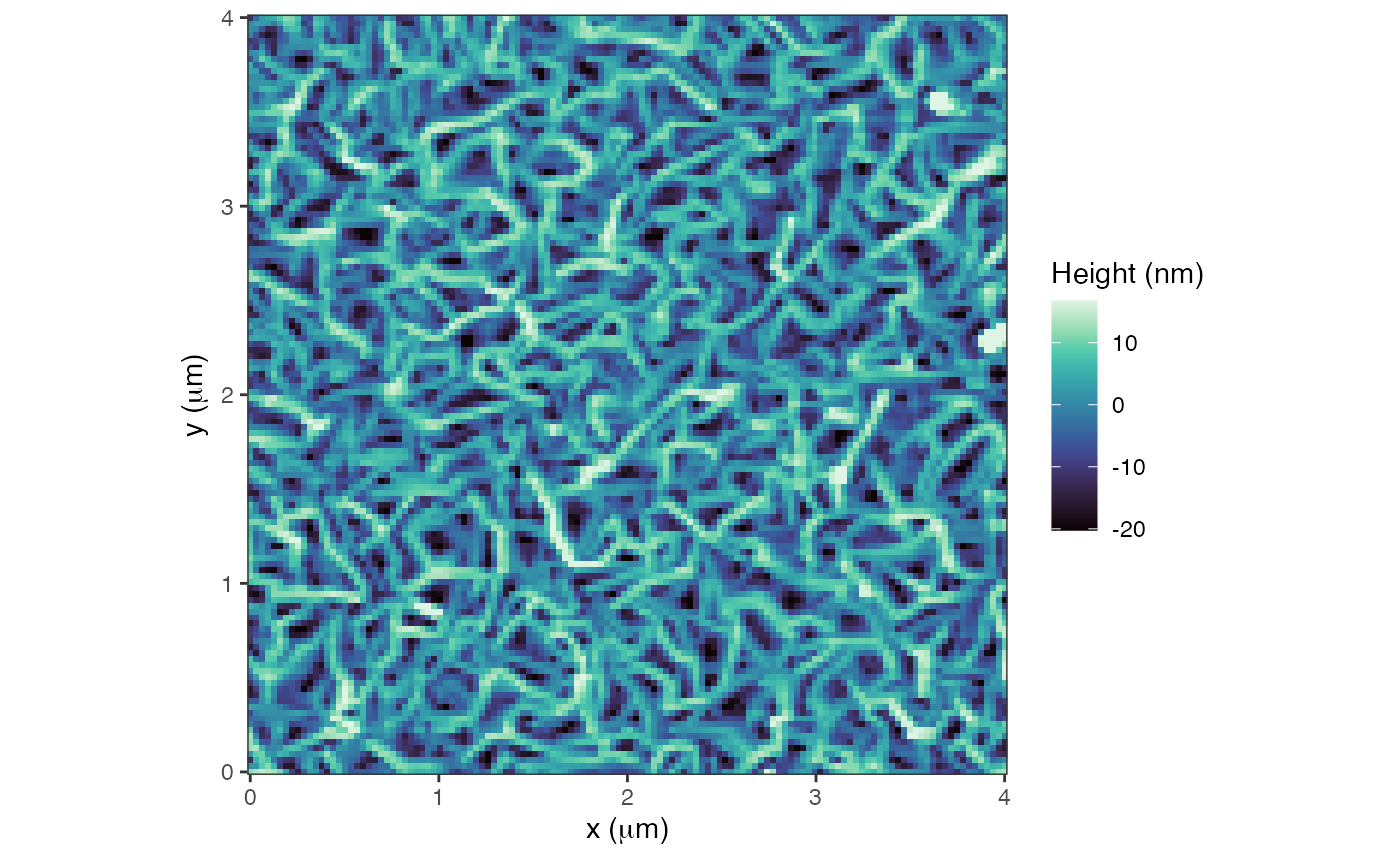
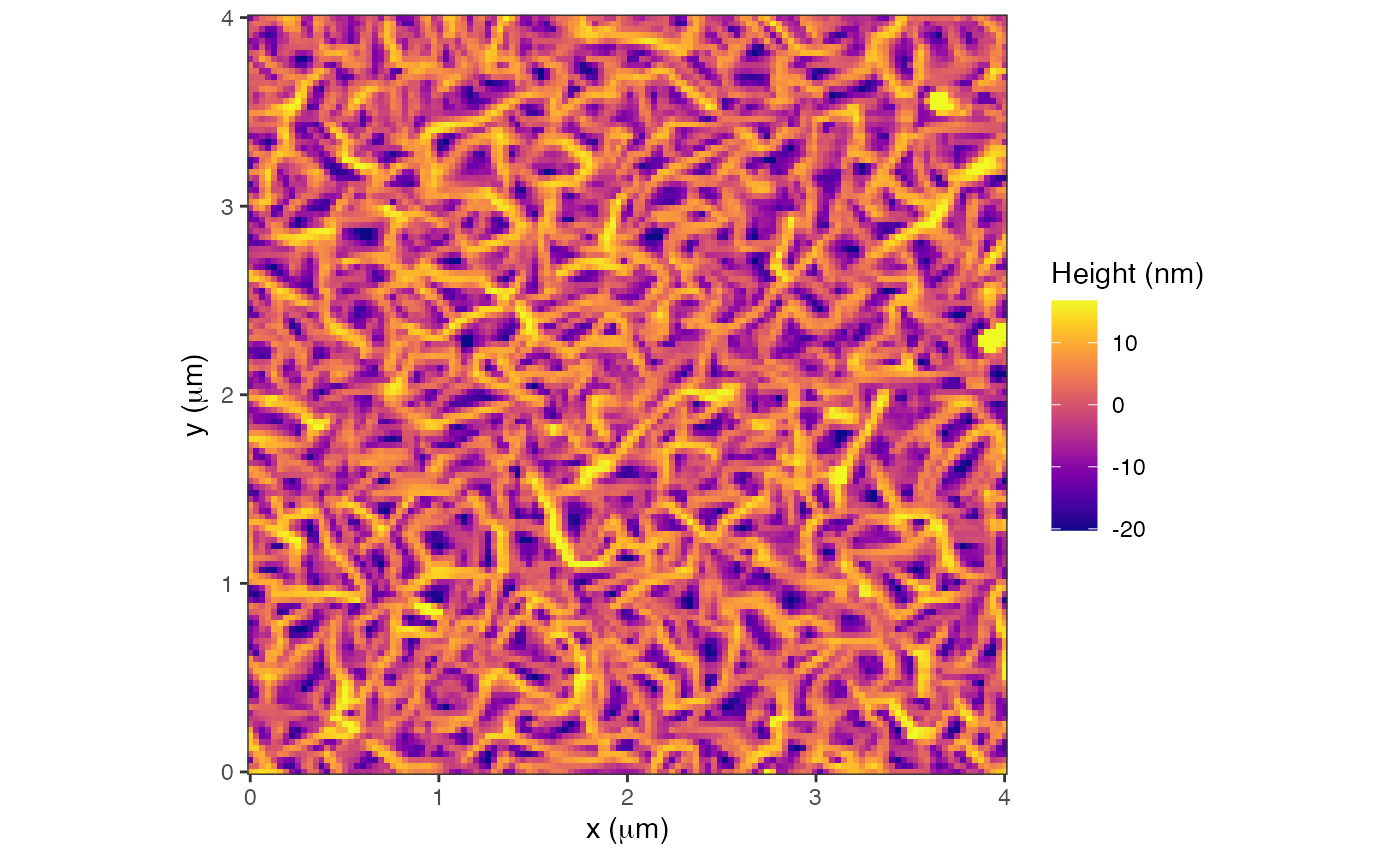
add color and graphType to plot.AFMdata

diff --git a/docs/articles/AFM-graphTypes.html b/docs/articles/AFM-graphTypes.html
@@ -140,9 +140,10 @@ the scale inside the graph.</p>
 <p>The image can be saved with <code>ggsave</code> as it is graphed with
 ggplot.</p>
 <div class="sourceCode" id="cb5"><pre class="downlit sourceCode r">
-<code class="sourceCode R"><span><span class="va">g1</span> <span class="op">=</span> <span class="fu"><a href="https://rdrr.io/r/graphics/plot.default.html" class="external-link">plot</a></span><span class="op">(</span><span class="va">afmd</span>, graphType<span class="op">=</span><span class="fl">2</span>, trimPeaks<span class="op">=</span><span class="fl">0.01</span><span class="op">)</span></span>
+<code class="sourceCode R"><span><span class="va">g1</span> <span class="op">=</span> <span class="fu"><a href="https://rdrr.io/r/graphics/plot.default.html" class="external-link">plot</a></span><span class="op">(</span><span class="va">afmd</span>, graphType<span class="op">=</span><span class="fl">2</span>, size<span class="op">=</span><span class="fl">10</span>, trimPeaks<span class="op">=</span><span class="fl">0.01</span><span class="op">)</span></span>
 <span><span class="co">#&gt; Graphing: HeightRetrace</span></span>
-<span><span class="fu"><a href="https://ggplot2.tidyverse.org/reference/ggsave.html" class="external-link">ggsave</a></span><span class="op">(</span><span class="fu"><a href="https://rdrr.io/r/base/tempfile.html" class="external-link">tempfile</a></span><span class="op">(</span>pattern <span class="op">=</span> <span class="st">""</span>, fileext <span class="op">=</span> <span class="st">".png"</span><span class="op">)</span>, plot<span class="op">=</span><span class="va">g1</span>, dpi<span class="op">=</span><span class="fl">300</span><span class="op">)</span></span>
+<span><span class="co">#&gt; Warning: Duplicated aesthetics after name standardisation: size</span></span>
+<span><span class="fu"><a href="https://ggplot2.tidyverse.org/reference/ggsave.html" class="external-link">ggsave</a></span><span class="op">(</span><span class="fu"><a href="https://rdrr.io/r/base/tempfile.html" class="external-link">tempfile</a></span><span class="op">(</span>pattern <span class="op">=</span> <span class="st">""</span>, fileext <span class="op">=</span> <span class="st">".png"</span><span class="op">)</span>, plot<span class="op">=</span><span class="va">g1</span>, dpi<span class="op">=</span><span class="fl">150</span><span class="op">)</span></span>
 <span><span class="co">#&gt; Saving 7.29 x 4.51 in image</span></span></code></pre></div>
 </div>
 <div class="section level2">
@@ -167,20 +168,31 @@ ggplot.</p>
 <span><span class="co">#&gt; 4   ZSensorRetrace         -29.44336 48.16414      nm</span></span></code></pre></div>
 </div>
 <div class="section level2">
+<h2 id="graphtype-4">graphType 4<a class="anchor" aria-label="anchor" href="#graphtype-4"></a>
+</h2>
+<p>This graph type is plain with a scale. You can also change the color
+and the size of the font that displays the scale.</p>
+<div class="sourceCode" id="cb8"><pre class="downlit sourceCode r">
+<code class="sourceCode R"><span><span class="fu"><a href="https://rdrr.io/r/graphics/plot.default.html" class="external-link">plot</a></span><span class="op">(</span><span class="va">afmd</span>, graphType<span class="op">=</span><span class="fl">4</span>, col<span class="op">=</span><span class="st">'white'</span>, size<span class="op">=</span><span class="fl">10</span>, trimPeaks<span class="op">=</span><span class="fl">0.05</span>, fillOption <span class="op">=</span> <span class="st">'A'</span><span class="op">)</span></span>
+<span><span class="co">#&gt; Graphing: HeightRetrace</span></span>
+<span><span class="co">#&gt; Warning: Duplicated aesthetics after name standardisation: size</span></span></code></pre></div>
+<p><img src="AFM-graphTypes_files/figure-html/unnamed-chunk-7-1.png" width="700"></p>
+</div>
+<div class="section level2">
 <h2 id="red-blue-color-scheme">Red Blue Color Scheme<a class="anchor" aria-label="anchor" href="#red-blue-color-scheme"></a>
 </h2>
 <p>This graph type is bare and has neither length scales nor legend.</p>
-<div class="sourceCode" id="cb8"><pre class="downlit sourceCode r">
+<div class="sourceCode" id="cb9"><pre class="downlit sourceCode r">
 <code class="sourceCode R"><span><span class="fu"><a href="https://rdrr.io/r/graphics/plot.default.html" class="external-link">plot</a></span><span class="op">(</span><span class="va">afmd</span>, graphType<span class="op">=</span><span class="fl">1</span>, trimPeaks<span class="op">=</span><span class="fl">0.01</span>, redBlue <span class="op">=</span> <span class="cn">TRUE</span><span class="op">)</span></span>
 <span><span class="co">#&gt; Graphing: HeightRetrace</span></span></code></pre></div>
-<p><img src="AFM-graphTypes_files/figure-html/unnamed-chunk-7-1.png" width="700"></p>
+<p><img src="AFM-graphTypes_files/figure-html/unnamed-chunk-8-1.png" width="700"></p>
 </div>
 <div class="section level2">
 <h2 id="graphing-2-plots-side-by-side">Graphing 2 plots side by side<a class="anchor" aria-label="anchor" href="#graphing-2-plots-side-by-side"></a>
 </h2>
 <p>Use the package <code>cowplot</code> to create a graph with two
 plots. Use <code>save_plot</code> to save the graph.</p>
-<div class="sourceCode" id="cb9"><pre class="downlit sourceCode r">
+<div class="sourceCode" id="cb10"><pre class="downlit sourceCode r">
 <code class="sourceCode R"><span><span class="kw"><a href="https://rdrr.io/r/base/library.html" class="external-link">library</a></span><span class="op">(</span><span class="va"><a href="https://wilkelab.org/cowplot/" class="external-link">cowplot</a></span><span class="op">)</span></span>
 <span><span class="va">fname2</span> <span class="op">=</span> <span class="fu"><a href="../reference/AFM.getSampleImages.html">AFM.getSampleImages</a></span><span class="op">(</span>type<span class="op">=</span><span class="st">'ibw'</span><span class="op">)</span><span class="op">[</span><span class="fl">1</span><span class="op">]</span></span>
 <span><span class="va">afmd2</span> <span class="op">=</span> <span class="fu"><a href="../reference/AFM.import.html">AFM.import</a></span><span class="op">(</span><span class="va">fname2</span><span class="op">)</span></span>
@@ -206,7 +218,7 @@ plots. Use <code>save_plot</code> to save the graph.</p>
 <span><span class="va">gAll</span> <span class="op">=</span> <span class="fu"><a href="https://wilkelab.org/cowplot/reference/plot_grid.html" class="external-link">plot_grid</a></span><span class="op">(</span><span class="va">g1</span>, <span class="va">g2</span>, <span class="va">g3</span>, <span class="va">g4</span>,</span>
 <span>          labels<span class="op">=</span><span class="fu"><a href="https://rdrr.io/r/base/c.html" class="external-link">c</a></span><span class="op">(</span><span class="st">'a'</span>,<span class="st">'b'</span>,<span class="st">'c'</span>,<span class="st">'d'</span><span class="op">)</span><span class="op">)</span></span>
 <span><span class="fu"><a href="https://wilkelab.org/cowplot/reference/ggdraw.html" class="external-link">ggdraw</a></span><span class="op">(</span><span class="fu"><a href="https://wilkelab.org/cowplot/reference/add_sub.html" class="external-link">add_sub</a></span><span class="op">(</span><span class="va">gAll</span>, <span class="st">"(a) height, (b) amplitude, (c) phase, (d) z sensor"</span>,x<span class="op">=</span><span class="fl">0.1</span>, hjust<span class="op">=</span><span class="fl">0</span><span class="op">)</span><span class="op">)</span></span></code></pre></div>
-<p><img src="AFM-graphTypes_files/figure-html/unnamed-chunk-8-1.png" width="700"></p>
+<p><img src="AFM-graphTypes_files/figure-html/unnamed-chunk-9-1.png" width="700"></p>
 </div>
 <div class="section level2">
 <h2 id="changing-the-color-palette">Changing the Color Palette<a class="anchor" aria-label="anchor" href="#changing-the-color-palette"></a>
@@ -214,50 +226,50 @@ plots. Use <code>save_plot</code> to save the graph.</p>
 <p>You can use the <code>fillOption</code> option to change the color
 palette, see also <code>? scale_fill_viridis</code>. There are 8
 options:</p>
-<div class="sourceCode" id="cb10"><pre class="downlit sourceCode r">
+<div class="sourceCode" id="cb11"><pre class="downlit sourceCode r">
 <code class="sourceCode R"><span><span class="fu"><a href="https://rdrr.io/r/graphics/plot.default.html" class="external-link">plot</a></span><span class="op">(</span><span class="va">afmd</span>, graphType <span class="op">=</span> <span class="fl">1</span>, fillOption <span class="op">=</span> <span class="st">"magma"</span><span class="op">)</span></span>
 <span><span class="co">#&gt; Graphing: HeightRetrace</span></span></code></pre></div>
-<p><img src="AFM-graphTypes_files/figure-html/unnamed-chunk-9-1.png" width="700"></p>
-<div class="sourceCode" id="cb11"><pre class="downlit sourceCode r">
+<p><img src="AFM-graphTypes_files/figure-html/unnamed-chunk-10-1.png" width="700"></p>
+<div class="sourceCode" id="cb12"><pre class="downlit sourceCode r">
 <code class="sourceCode R"><span><span class="fu"><a href="https://rdrr.io/r/graphics/plot.default.html" class="external-link">plot</a></span><span class="op">(</span><span class="va">afmd</span>, graphType <span class="op">=</span> <span class="fl">1</span>, fillOption <span class="op">=</span> <span class="st">"inferno"</span><span class="op">)</span></span>
 <span><span class="co">#&gt; Graphing: HeightRetrace</span></span></code></pre></div>
-<p><img src="AFM-graphTypes_files/figure-html/unnamed-chunk-9-2.png" width="700"></p>
-<div class="sourceCode" id="cb12"><pre class="downlit sourceCode r">
+<p><img src="AFM-graphTypes_files/figure-html/unnamed-chunk-10-2.png" width="700"></p>
+<div class="sourceCode" id="cb13"><pre class="downlit sourceCode r">
 <code class="sourceCode R"><span><span class="fu"><a href="https://rdrr.io/r/graphics/plot.default.html" class="external-link">plot</a></span><span class="op">(</span><span class="va">afmd</span>, graphType <span class="op">=</span> <span class="fl">1</span>, fillOption <span class="op">=</span> <span class="st">"plasma"</span><span class="op">)</span></span>
 <span><span class="co">#&gt; Graphing: HeightRetrace</span></span></code></pre></div>
-<p><img src="AFM-graphTypes_files/figure-html/unnamed-chunk-9-3.png" width="700"></p>
-<div class="sourceCode" id="cb13"><pre class="downlit sourceCode r">
+<p><img src="AFM-graphTypes_files/figure-html/unnamed-chunk-10-3.png" width="700"></p>
+<div class="sourceCode" id="cb14"><pre class="downlit sourceCode r">
 <code class="sourceCode R"><span><span class="fu"><a href="https://rdrr.io/r/graphics/plot.default.html" class="external-link">plot</a></span><span class="op">(</span><span class="va">afmd</span>, graphType <span class="op">=</span> <span class="fl">1</span>, fillOption <span class="op">=</span> <span class="st">"viridis"</span><span class="op">)</span></span>
 <span><span class="co">#&gt; Graphing: HeightRetrace</span></span></code></pre></div>
-<p><img src="AFM-graphTypes_files/figure-html/unnamed-chunk-9-4.png" width="700"></p>
-<div class="sourceCode" id="cb14"><pre class="downlit sourceCode r">
+<p><img src="AFM-graphTypes_files/figure-html/unnamed-chunk-10-4.png" width="700"></p>
+<div class="sourceCode" id="cb15"><pre class="downlit sourceCode r">
 <code class="sourceCode R"><span><span class="fu"><a href="https://rdrr.io/r/graphics/plot.default.html" class="external-link">plot</a></span><span class="op">(</span><span class="va">afmd</span>, graphType <span class="op">=</span> <span class="fl">1</span>, fillOption <span class="op">=</span> <span class="st">"cividis"</span><span class="op">)</span></span>
 <span><span class="co">#&gt; Graphing: HeightRetrace</span></span></code></pre></div>
-<p><img src="AFM-graphTypes_files/figure-html/unnamed-chunk-10-1.png" width="700"></p>
-<div class="sourceCode" id="cb15"><pre class="downlit sourceCode r">
+<p><img src="AFM-graphTypes_files/figure-html/unnamed-chunk-11-1.png" width="700"></p>
+<div class="sourceCode" id="cb16"><pre class="downlit sourceCode r">
 <code class="sourceCode R"><span><span class="fu"><a href="https://rdrr.io/r/graphics/plot.default.html" class="external-link">plot</a></span><span class="op">(</span><span class="va">afmd</span>, graphType <span class="op">=</span> <span class="fl">1</span>, fillOption <span class="op">=</span> <span class="st">"rocket"</span><span class="op">)</span></span>
 <span><span class="co">#&gt; Graphing: HeightRetrace</span></span></code></pre></div>
-<p><img src="AFM-graphTypes_files/figure-html/unnamed-chunk-10-2.png" width="700"></p>
-<div class="sourceCode" id="cb16"><pre class="downlit sourceCode r">
+<p><img src="AFM-graphTypes_files/figure-html/unnamed-chunk-11-2.png" width="700"></p>
+<div class="sourceCode" id="cb17"><pre class="downlit sourceCode r">
 <code class="sourceCode R"><span><span class="fu"><a href="https://rdrr.io/r/graphics/plot.default.html" class="external-link">plot</a></span><span class="op">(</span><span class="va">afmd</span>, graphType <span class="op">=</span> <span class="fl">1</span>, fillOption <span class="op">=</span> <span class="st">"mako"</span><span class="op">)</span></span>
 <span><span class="co">#&gt; Graphing: HeightRetrace</span></span></code></pre></div>
-<p><img src="AFM-graphTypes_files/figure-html/unnamed-chunk-10-3.png" width="700"></p>
-<div class="sourceCode" id="cb17"><pre class="downlit sourceCode r">
+<p><img src="AFM-graphTypes_files/figure-html/unnamed-chunk-11-3.png" width="700"></p>
+<div class="sourceCode" id="cb18"><pre class="downlit sourceCode r">
 <code class="sourceCode R"><span><span class="fu"><a href="https://rdrr.io/r/graphics/plot.default.html" class="external-link">plot</a></span><span class="op">(</span><span class="va">afmd</span>, graphType <span class="op">=</span> <span class="fl">1</span>, fillOption <span class="op">=</span> <span class="st">"turbo"</span><span class="op">)</span></span>
 <span><span class="co">#&gt; Graphing: HeightRetrace</span></span></code></pre></div>
-<p><img src="AFM-graphTypes_files/figure-html/unnamed-chunk-10-4.png" width="700"></p>
+<p><img src="AFM-graphTypes_files/figure-html/unnamed-chunk-11-4.png" width="700"></p>
 </div>
 <div class="section level2">
 <h2 id="adjusting-the-scale">Adjusting the scale<a class="anchor" aria-label="anchor" href="#adjusting-the-scale"></a>
 </h2>
-<div class="sourceCode" id="cb18"><pre class="downlit sourceCode r">
+<div class="sourceCode" id="cb19"><pre class="downlit sourceCode r">
 <code class="sourceCode R"><span><span class="fu"><a href="https://rdrr.io/r/graphics/plot.default.html" class="external-link">plot</a></span><span class="op">(</span><span class="va">afmd</span><span class="op">)</span></span>
 <span><span class="co">#&gt; Graphing: HeightRetrace</span></span></code></pre></div>
-<p><img src="AFM-graphTypes_files/figure-html/unnamed-chunk-11-1.png" width="700"></p>
-<div class="sourceCode" id="cb19"><pre class="downlit sourceCode r">
+<p><img src="AFM-graphTypes_files/figure-html/unnamed-chunk-12-1.png" width="700"></p>
+<div class="sourceCode" id="cb20"><pre class="downlit sourceCode r">
 <code class="sourceCode R"><span><span class="fu"><a href="https://rdrr.io/r/graphics/plot.default.html" class="external-link">plot</a></span><span class="op">(</span><span class="va">afmd</span>, setRange<span class="op">=</span><span class="fu"><a href="https://rdrr.io/r/base/c.html" class="external-link">c</a></span><span class="op">(</span><span class="op">-</span><span class="fl">50</span>,<span class="fl">50</span><span class="op">)</span><span class="op">)</span></span>
 <span><span class="co">#&gt; Graphing: HeightRetrace</span></span></code></pre></div>
-<p><img src="AFM-graphTypes_files/figure-html/unnamed-chunk-11-2.png" width="700"></p>
+<p><img src="AFM-graphTypes_files/figure-html/unnamed-chunk-12-2.png" width="700"></p>
 </div>
   </div>
 

diff --git a/docs/reference/AFM.hhcf.html b/docs/reference/AFM.hhcf.html
@@ -158,15 +158,13 @@ is no fit, the value can be reduced to 70 or 60.</p></dd>
 <span class="r-in"><span><span class="va">r</span> <span class="op">=</span> <span class="fu">AFM.hhcf</span><span class="op">(</span><span class="va">a</span>, numIterations <span class="op">=</span> <span class="fl">5e5</span>, dataOnly <span class="op">=</span> <span class="cn">TRUE</span><span class="op">)</span></span></span>
 <span class="r-in"><span><span class="fu"><a href="https://rdrr.io/r/utils/head.html" class="external-link">head</a></span><span class="op">(</span><span class="va">r</span><span class="op">)</span>                          <span class="co"># output HHCF data</span></span></span>
 <span class="r-out co"><span class="r-pr">#&gt;</span>        r.nm          g    num</span>
-<span class="r-out co"><span class="r-pr">#&gt;</span> 1  9.803922 0.08491045 498697</span>
-<span class="r-out co"><span class="r-pr">#&gt;</span> 2 19.607843 0.21596528 496567</span>
-<span class="r-out co"><span class="r-pr">#&gt;</span> 3 29.411765 0.36262190 494264</span>
-<span class="r-out co"><span class="r-pr">#&gt;</span> 4 39.215686 0.49898530 491954</span>
-<span class="r-out co"><span class="r-pr">#&gt;</span> 5 49.019608 0.61101167 489496</span>
-<span class="r-out co"><span class="r-pr">#&gt;</span> 6 58.823529 0.69584859 486998</span>
+<span class="r-out co"><span class="r-pr">#&gt;</span> 1  9.803922 0.08540261 498700</span>
+<span class="r-out co"><span class="r-pr">#&gt;</span> 2 19.607843 0.21656324 496578</span>
+<span class="r-out co"><span class="r-pr">#&gt;</span> 3 29.411765 0.36358104 494235</span>
+<span class="r-out co"><span class="r-pr">#&gt;</span> 4 39.215686 0.50029594 491850</span>
+<span class="r-out co"><span class="r-pr">#&gt;</span> 5 49.019608 0.61549534 489389</span>
+<span class="r-out co"><span class="r-pr">#&gt;</span> 6 58.823529 0.70103751 486927</span>
 <span class="r-in"><span><span class="fu">AFM.hhcf</span><span class="op">(</span><span class="va">a</span>, dataOnly <span class="op">=</span> <span class="cn">FALSE</span><span class="op">)</span>    <span class="co"># output graph</span></span></span>
-<span class="r-out co"><span class="r-pr">#&gt;</span> Error in nls(data = r, g ~ ss * (1 - exp(-(r.nm/xi)^H)), start = list(ss = ss,  : </span>
-<span class="r-out co"><span class="r-pr">#&gt;</span>   number of iterations exceeded maximum of 50</span>
 <span class="r-plt img"><img src="AFM.hhcf-1.png" alt="" width="700" height="433"></span>
 <span class="r-in"><span></span></span>
 </code></pre></div>

diff --git a/docs/articles/AFM-imageSummary.html b/docs/articles/AFM-imageSummary.html
@@ -873,7 +873,7 @@ object:</p>
 <span><span class="co">#&gt; [1] "Cypher"</span></span>
 <span><span class="co">#&gt; </span></span>
 <span><span class="co">#&gt; $filename</span></span>
-<span><span class="co">#&gt; [1] "/private/var/folders/n7/c8bjcf7n25g74wqr3_7cgpvh0000gt/T/RtmpY7B6tl/temp_libpath2ed8383980e1/nanoscopeAFM/extdata/AR_20211011.ibw"</span></span>
+<span><span class="co">#&gt; [1] "/private/var/folders/n7/c8bjcf7n25g74wqr3_7cgpvh0000gt/T/RtmpcrXDlG/temp_libpath95939f7cf3a/nanoscopeAFM/extdata/AR_20211011.ibw"</span></span>
 <span><span class="co">#&gt; </span></span>
 <span><span class="co">#&gt; $widthPixel</span></span>
 <span><span class="co">#&gt; [1] 128</span></span>
@@ -1481,7 +1481,7 @@ object:</p>
 <span><span class="co">#&gt; [1] "NanoSurf"</span></span>
 <span><span class="co">#&gt; </span></span>
 <span><span class="co">#&gt; $filename</span></span>
-<span><span class="co">#&gt; [1] "/private/var/folders/n7/c8bjcf7n25g74wqr3_7cgpvh0000gt/T/RtmpY7B6tl/temp_libpath2ed8383980e1/nanoscopeAFM/extdata/NanoSurf_20160301.nid"</span></span>
+<span><span class="co">#&gt; [1] "/private/var/folders/n7/c8bjcf7n25g74wqr3_7cgpvh0000gt/T/RtmpcrXDlG/temp_libpath95939f7cf3a/nanoscopeAFM/extdata/NanoSurf_20160301.nid"</span></span>
 <span><span class="co">#&gt; </span></span>
 <span><span class="co">#&gt; $widthPixel</span></span>
 <span><span class="co">#&gt; [1] 128</span></span>
@@ -1578,7 +1578,7 @@ object:</p>
 <span><span class="co">#&gt; [1] "Park"</span></span>
 <span><span class="co">#&gt; </span></span>
 <span><span class="co">#&gt; $filename</span></span>
-<span><span class="co">#&gt; [1] "/private/var/folders/n7/c8bjcf7n25g74wqr3_7cgpvh0000gt/T/RtmpY7B6tl/temp_libpath2ed8383980e1/nanoscopeAFM/extdata/Park_20210916_034.tiff"</span></span>
+<span><span class="co">#&gt; [1] "/private/var/folders/n7/c8bjcf7n25g74wqr3_7cgpvh0000gt/T/RtmpcrXDlG/temp_libpath95939f7cf3a/nanoscopeAFM/extdata/Park_20210916_034.tiff"</span></span>
 <span><span class="co">#&gt; </span></span>
 <span><span class="co">#&gt; $widthPixel</span></span>
 <span><span class="co">#&gt; [1] 256</span></span>

diff --git a/docs/reference/plot.AFMdata.html b/docs/reference/plot.AFMdata.html
@@ -104,7 +104,7 @@
 
 
 <dt>graphType</dt>
-<dd><p>1 = graph with legend outside, 2 = square graph with line bar, 3 = plain graph</p></dd>
+<dd><p>1 = graph with legend outside, 2 = square graph with line bar, 3 = plain graph, 4 = plain graph with scale</p></dd>
 
 
 <dt>trimPeaks</dt>
@@ -136,7 +136,7 @@
 
 
 <dt>...</dt>
-<dd><p>other arguments</p></dd>
+<dd><p>other arguments, such as col='white' to change color of bar</p></dd>
 
 </dl></div>
     <div id="value">
@@ -163,6 +163,10 @@
 <span class="r-in"><span><span class="fu"><a href="https://rdrr.io/r/graphics/plot.default.html" class="external-link">plot</a></span><span class="op">(</span><span class="va">d</span>, fillOption <span class="op">=</span> <span class="st">"magma"</span>, setRange<span class="op">=</span><span class="fu"><a href="https://rdrr.io/r/base/c.html" class="external-link">c</a></span><span class="op">(</span><span class="op">-</span><span class="fl">30</span>,<span class="fl">30</span><span class="op">)</span><span class="op">)</span></span></span>
 <span class="r-out co"><span class="r-pr">#&gt;</span> Graphing: HeightRetrace</span>
 <span class="r-plt img"><img src="plot.AFMdata-2.png" alt="" width="700" height="433"></span>
+<span class="r-in"><span><span class="fu"><a href="https://rdrr.io/r/graphics/plot.default.html" class="external-link">plot</a></span><span class="op">(</span><span class="va">d</span>, graphType<span class="op">=</span><span class="fl">4</span>, col<span class="op">=</span><span class="st">'white'</span>, size<span class="op">=</span><span class="fl">10</span><span class="op">)</span></span></span>
+<span class="r-out co"><span class="r-pr">#&gt;</span> Graphing: HeightRetrace</span>
+<span class="r-wrn co"><span class="r-pr">#&gt;</span> <span class="warning">Warning: </span>Duplicated aesthetics after name standardisation: size</span>
+<span class="r-plt img"><img src="plot.AFMdata-3.png" alt="" width="700" height="433"></span>
 </code></pre></div>
     </div>
   </div>

diff --git a/docs/articles/advancedAFM-Graph.html b/docs/articles/advancedAFM-Graph.html
@@ -109,6 +109,7 @@
     
 <div class="sourceCode" id="cb1"><pre class="downlit sourceCode r">
 <code class="sourceCode R"><span><span class="kw"><a href="https://rdrr.io/r/base/library.html" class="external-link">library</a></span><span class="op">(</span><span class="va"><a href="https://thomasgredig.github.io/nanoscopeAFM/">nanoscopeAFM</a></span><span class="op">)</span></span>
+<span><span class="co">#&gt; Please cite nanoscopeAFM ,see https://doi.org/10.5281/zenodo.5770772</span></span>
 <span><span class="kw"><a href="https://rdrr.io/r/base/library.html" class="external-link">library</a></span><span class="op">(</span><span class="va"><a href="https://ggplot2.tidyverse.org" class="external-link">ggplot2</a></span><span class="op">)</span></span>
 <span><span class="kw"><a href="https://rdrr.io/r/base/library.html" class="external-link">library</a></span><span class="op">(</span><span class="va"><a href="https://scales.r-lib.org" class="external-link">scales</a></span><span class="op">)</span></span>
 <span><span class="va">filename</span> <span class="op">=</span> <span class="fu"><a href="../reference/AFM.getSampleImages.html">AFM.getSampleImages</a></span><span class="op">(</span>type<span class="op">=</span><span class="st">'tiff'</span><span class="op">)</span></span>

diff --git a/docs/articles/afm-setpoint.html b/docs/articles/afm-setpoint.html
@@ -114,7 +114,6 @@
 retrieving the <code>AFMinfo</code>. Here is an example:</p>
 <div class="sourceCode" id="cb1"><pre class="downlit sourceCode r">
 <code class="sourceCode R"><span><span class="kw"><a href="https://rdrr.io/r/base/library.html" class="external-link">library</a></span><span class="op">(</span><span class="va"><a href="https://thomasgredig.github.io/nanoscopeAFM/">nanoscopeAFM</a></span><span class="op">)</span></span>
-<span><span class="co">#&gt; Please cite nanoscopeAFM ,see https://doi.org/10.5281/zenodo.5770772</span></span>
 <span></span>
 <span><span class="co"># loading the test file from the nanoscopeAFM package</span></span>
 <span><span class="va">filename</span> <span class="op">=</span> <span class="op">(</span><span class="fu"><a href="https://rdrr.io/r/base/system.file.html" class="external-link">system.file</a></span><span class="op">(</span><span class="st">"extdata"</span>,<span class="st">"AR_20211011.ibw"</span>,package<span class="op">=</span><span class="st">"nanoscopeAFM"</span><span class="op">)</span><span class="op">)</span></span>

diff --git a/docs/reference/print.AFMdata.html b/docs/reference/print.AFMdata.html
@@ -108,7 +108,7 @@ the description, channel, image size, history, and filename</p>
 <span class="r-out co"><span class="r-pr">#&gt;</span> Channel:     HeightRetrace AmplitudeRetrace PhaseRetrace ZSensorRetrace </span>
 <span class="r-out co"><span class="r-pr">#&gt;</span>              4000 nm  x  4000 nm </span>
 <span class="r-out co"><span class="r-pr">#&gt;</span> History:      </span>
-<span class="r-out co"><span class="r-pr">#&gt;</span> Filename:    /private/var/folders/n7/c8bjcf7n25g74wqr3_7cgpvh0000gt/T/RtmpY7B6tl/temp_libpath2ed8383980e1/nanoscopeAFM/extdata/AR_20211011.ibw</span>
+<span class="r-out co"><span class="r-pr">#&gt;</span> Filename:    /private/var/folders/n7/c8bjcf7n25g74wqr3_7cgpvh0000gt/T/RtmpcrXDlG/temp_libpath95939f7cf3a/nanoscopeAFM/extdata/AR_20211011.ibw</span>
 </code></pre></div>
     </div>
   </div>

diff --git a/docs/news/index.html b/docs/news/index.html
@@ -71,6 +71,7 @@
 <ul><li>Update the Vignettes and Documentation</li>
 <li>Height-Height Correlation Function Documentation</li>
 <li>Adding AFM image range adjustment</li>
+<li>GraphType=4 and add size to vary the bar description size</li>
 </ul></div>
     <div class="section level2">
 <h2 class="page-header" data-toc-text="2.0.9" id="nanoscopeafm-209">nanoscopeAFM 2.0.9<a class="anchor" aria-label="anchor" href="#nanoscopeafm-209"></a></h2>

diff --git a/docs/reference/AFM.selectChannel.html b/docs/reference/AFM.selectChannel.html
@@ -95,6 +95,10 @@
     <h2>See also</h2>
     <div class="dont-index"><p><code><a href="AFM.crop.html">AFM.crop</a></code></p></div>
     </div>
+    <div id="author">
+    <h2>Author</h2>
+    <p>Thomas Gredig</p>
+    </div>
 
   </div>
   <div class="col-md-3 hidden-xs hidden-sm" id="pkgdown-sidebar">

diff --git a/NEWS.md b/NEWS.md
@@ -3,6 +3,7 @@
 * Update the Vignettes and Documentation
 * Height-Height Correlation Function Documentation
 * Adding AFM image range adjustment
+* GraphType=4 and add size to vary the bar description size
 
 # nanoscopeAFM 2.0.9
 
